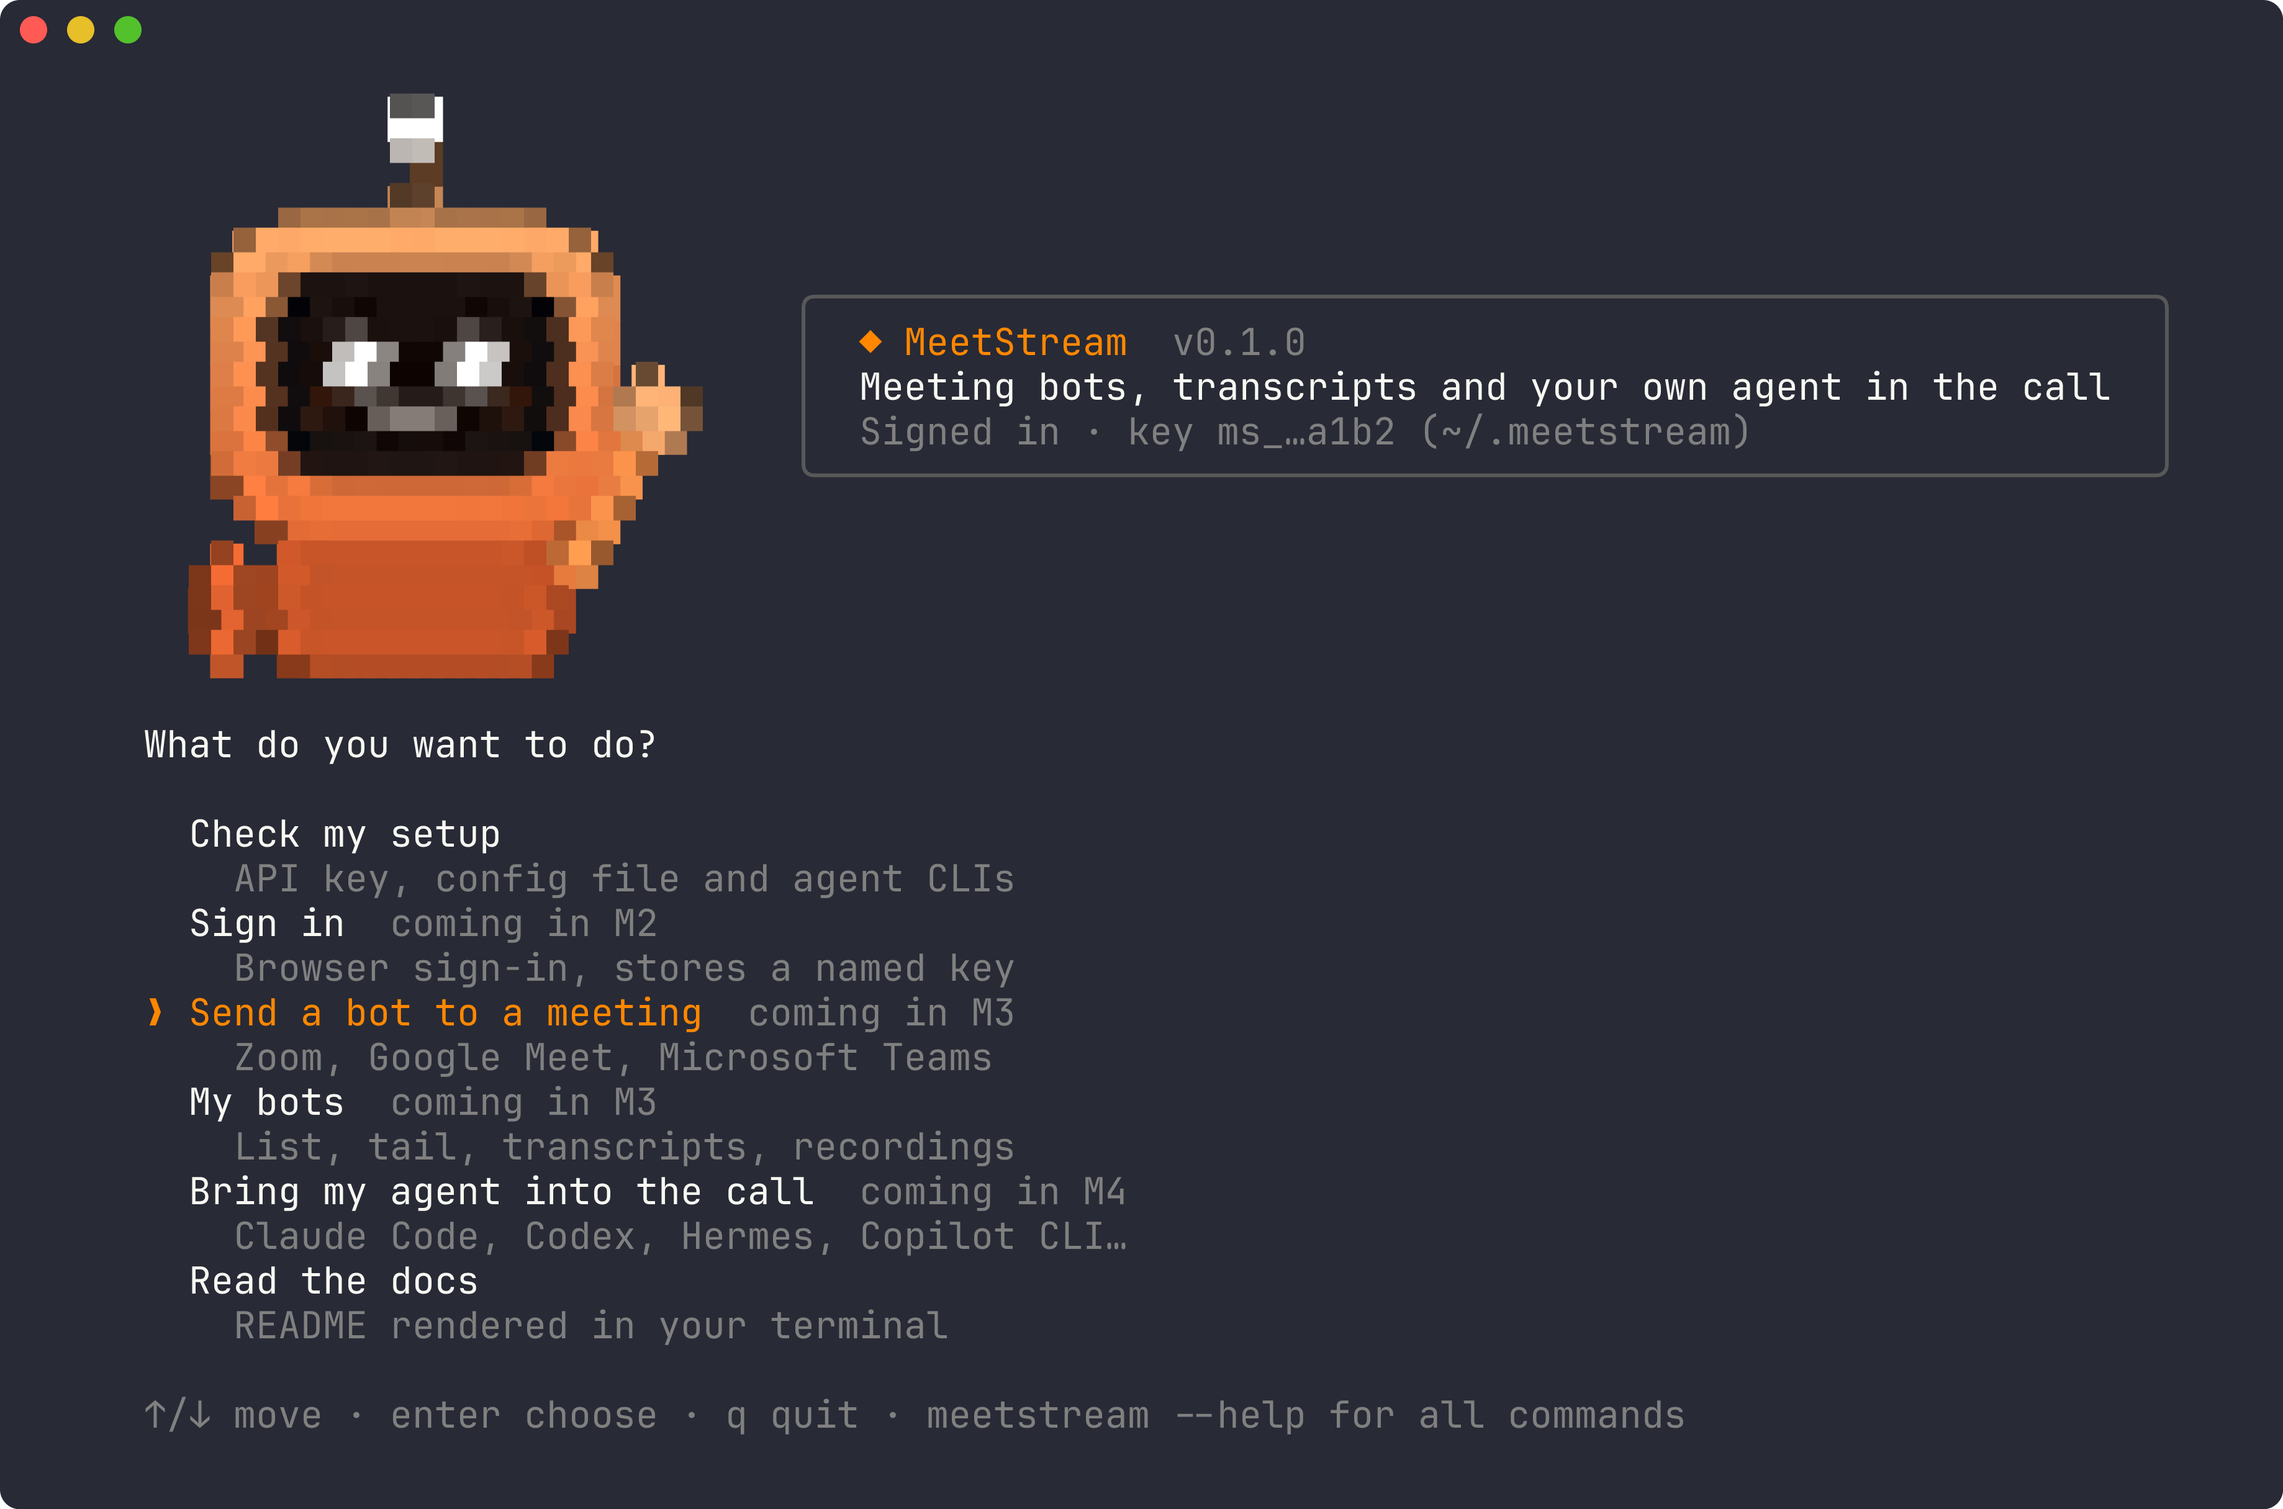
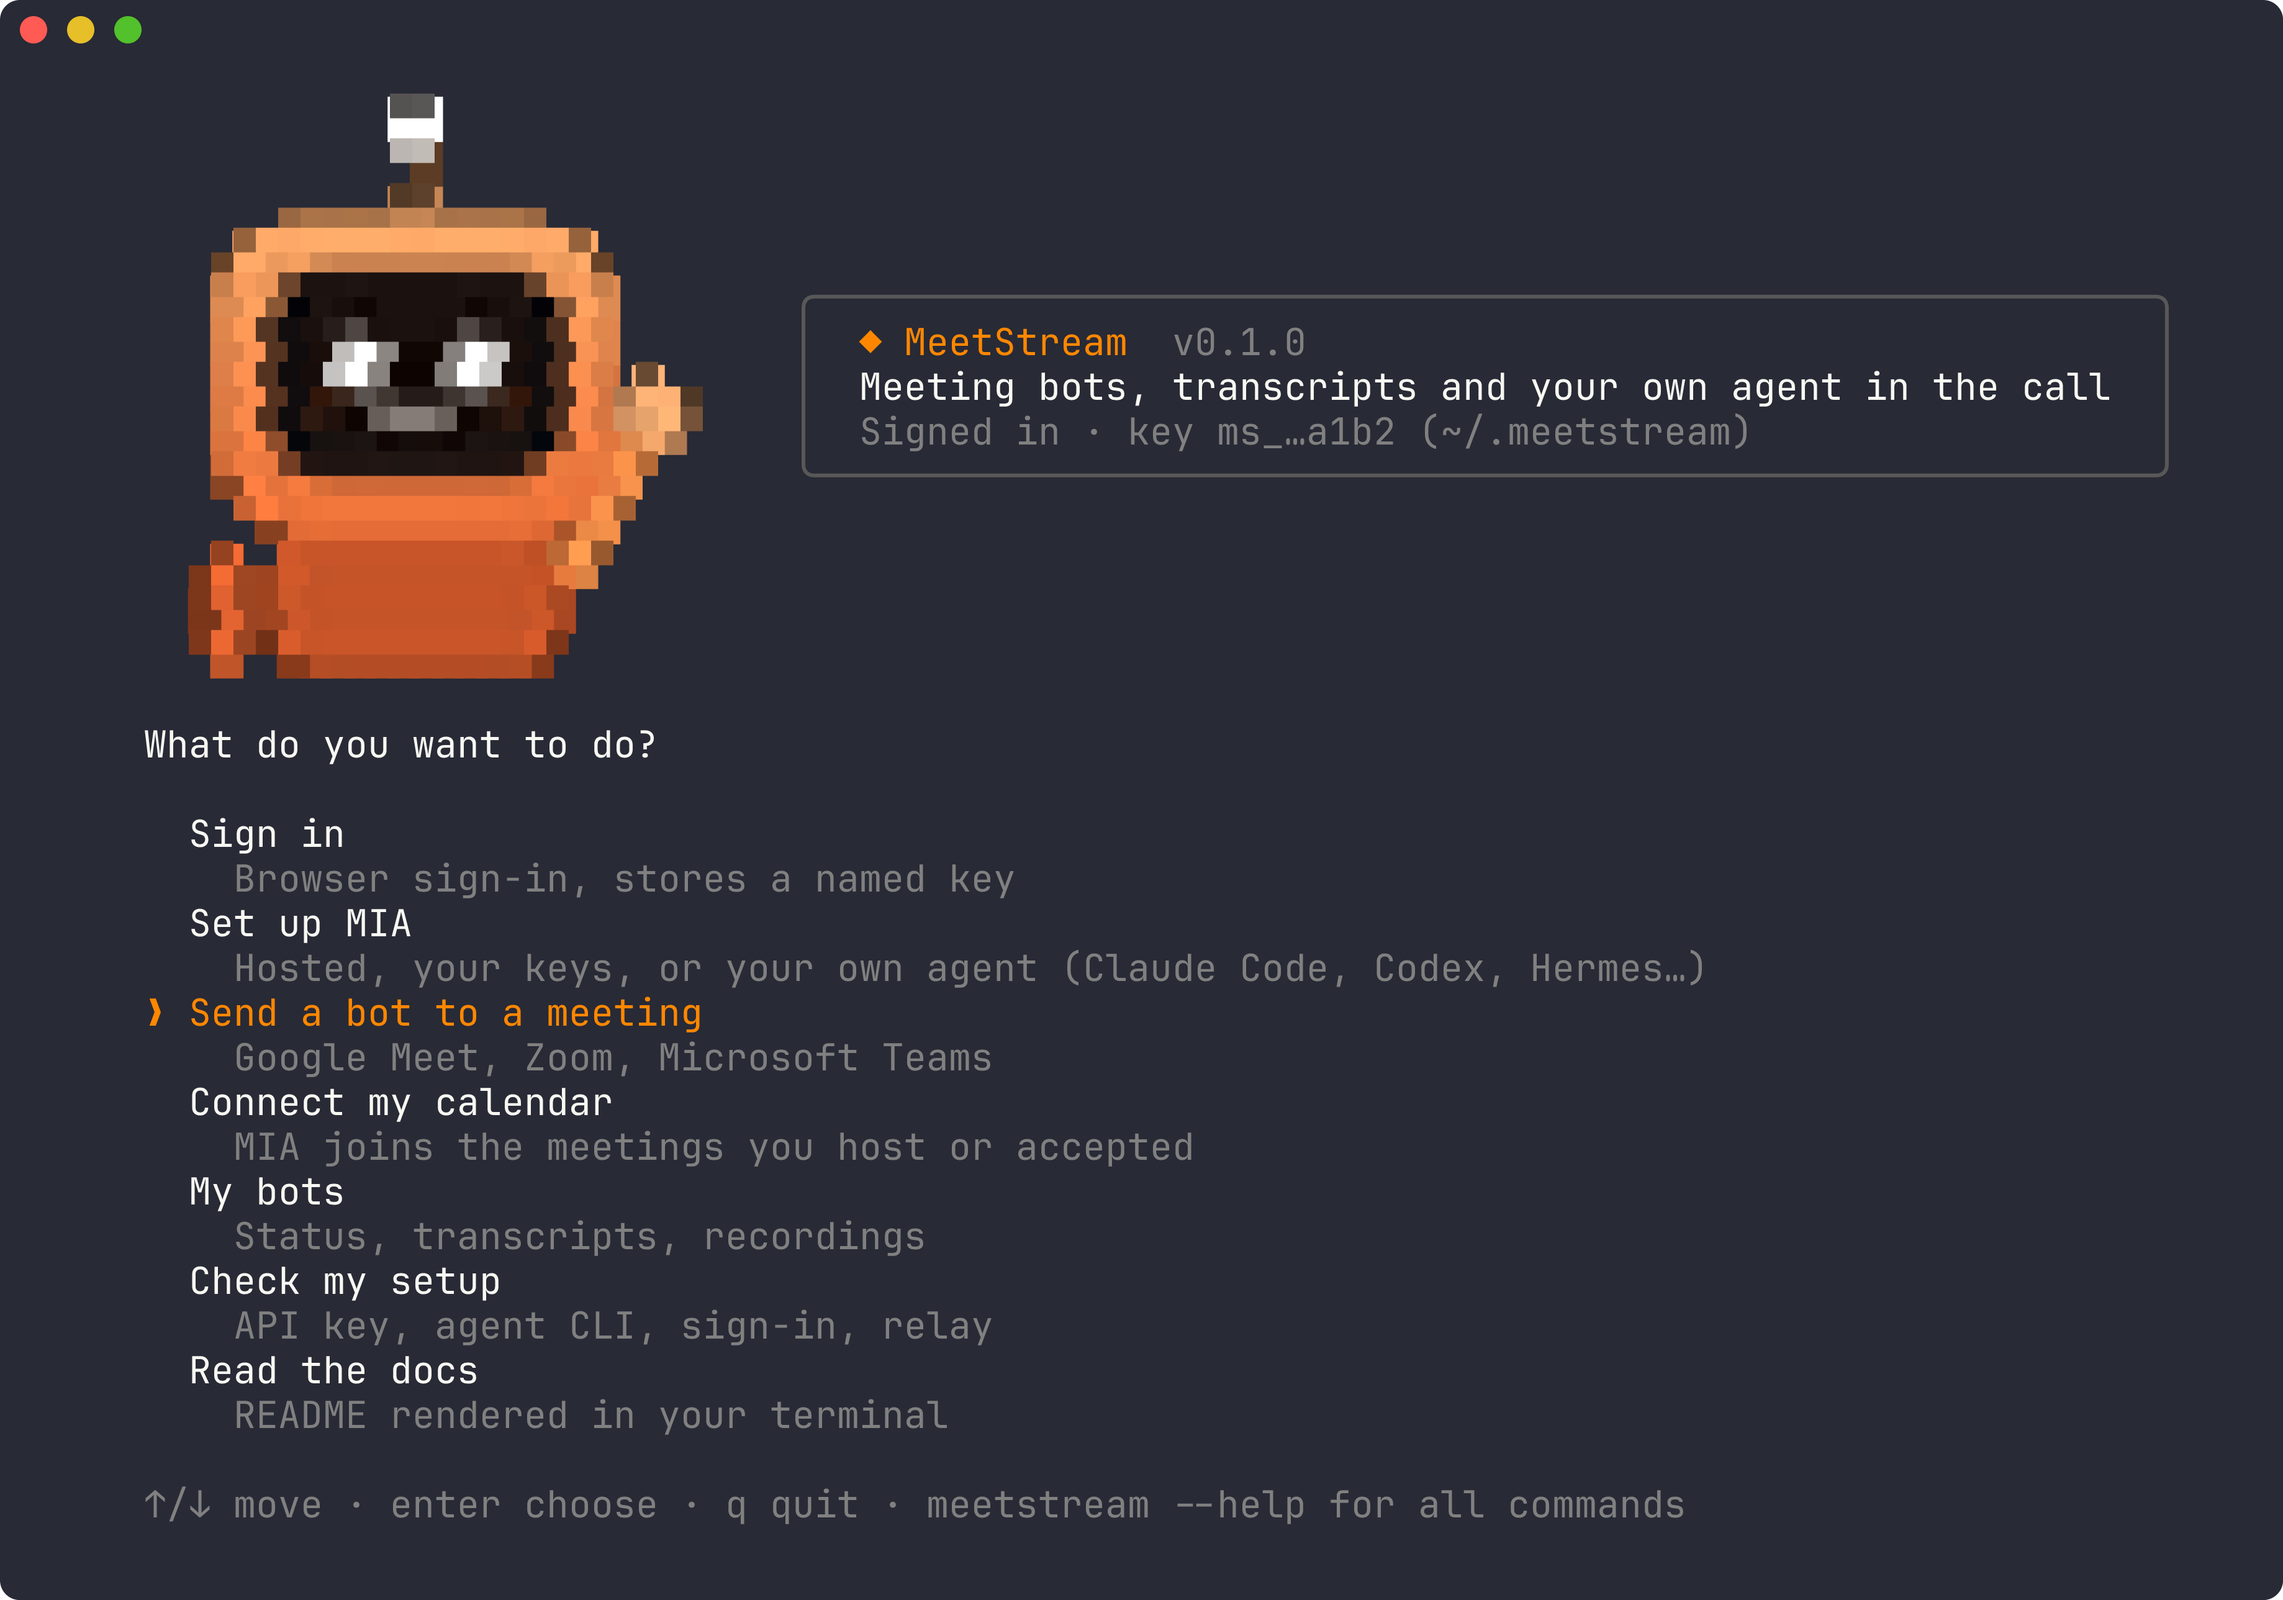
home: Sign in, Set up MIA, Send a bot, Connect my calendar first; drop the stale 'coming' label

diff --git a/internal/cli/home.go b/internal/cli/home.go
@@ -24,11 +24,12 @@ type homeItem struct {
 }
 
 var homeItems = []homeItem{
-	{[]string{"doctor"}, "Check my setup", "API key, config file and agent CLIs", ""},
 	{[]string{"login"}, "Sign in", "Browser sign-in, stores a named key", ""},
-	{[]string{"join"}, "Send a bot to a meeting", "Zoom, Google Meet, Microsoft Teams", ""},
-	{[]string{"bots"}, "My bots", "List, tail, transcripts, recordings", ""},
-	{[]string{"setup"}, "Bring my agent into the call", "Claude Code, Codex, Hermes, Copilot CLI…", "M4"},
+	{[]string{"setup"}, "Set up MIA", "Hosted, your keys, or your own agent (Claude Code, Codex, Hermes…)", ""},
+	{[]string{"join"}, "Send a bot to a meeting", "Google Meet, Zoom, Microsoft Teams", ""},
+	{[]string{"calendar", "connect"}, "Connect my calendar", "MIA joins the meetings you host or accepted", ""},
+	{[]string{"bots", "list"}, "My bots", "Status, transcripts, recordings", ""},
+	{[]string{"doctor"}, "Check my setup", "API key, agent CLI, sign-in, relay", ""},
 	{[]string{"docs"}, "Read the docs", "README rendered in your terminal", ""},
 }
 

diff --git a/internal/cli/cli_test.go b/internal/cli/cli_test.go
@@ -95,10 +95,13 @@ func TestHomeView(t *testing.T) {
 	}
 	m := homeModel{version: "0.1.0", signedIn: "Signed in · key ms_…a1b2 (~/.meetstream)", cursor: 2}
 	v := m.View()
-	for _, want := range []string{"MeetStream", "Send a bot to a meeting", "coming in M4", "enter choose"} {
+	for _, want := range []string{"MeetStream", "Sign in", "Set up MIA", "Send a bot to a meeting", "Connect my calendar", "enter choose"} {
 		if !strings.Contains(v, want) {
 			t.Errorf("home view missing %q", want)
 		}
+	}
+	if strings.Contains(v, "coming in") {
+		t.Errorf("home view still marks a shipped item as coming:\n%s", v)
 	}
 	if p := os.Getenv("MEETSTREAM_DUMP_HOME"); p != "" {
 		if err := os.WriteFile(p, []byte(v), 0o644); err != nil {
